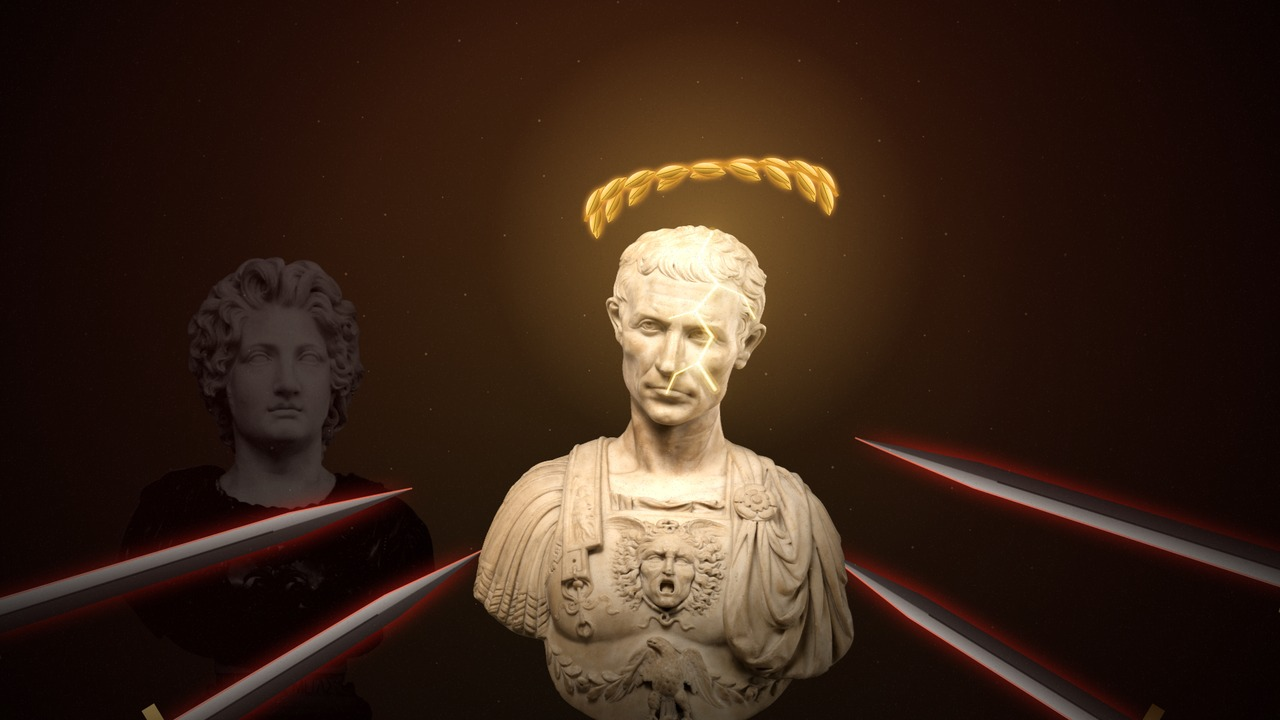
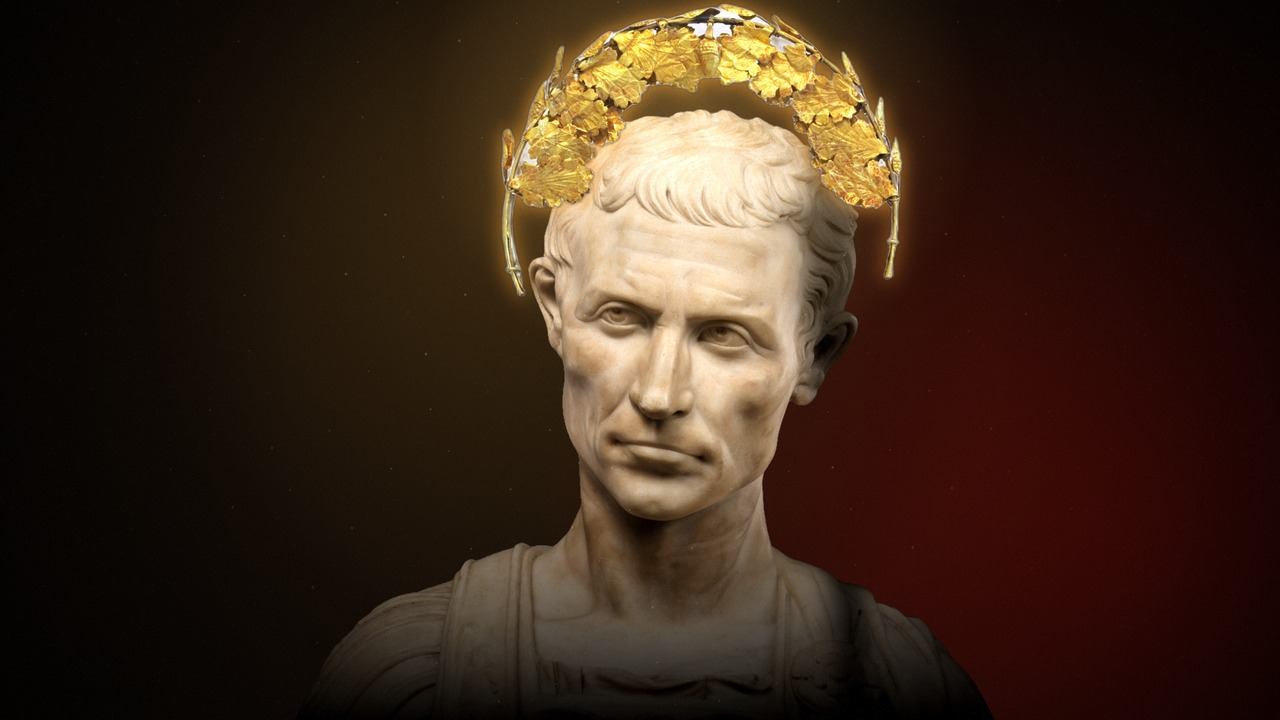
Ego of the Greats ch.2: final thumbnail = option B (crown close-up)
Claude-Session: https://claude.ai/code/session_01FdNxymsi2wKkErxPpURUwr

diff --git a/.claude/skills/jason-video-editor/references/journal.md b/.claude/skills/jason-video-editor/references/journal.md
@@ -489,3 +489,4 @@ Jason sent six references to label as standards. All are now in `jason-motion-gr
 - **CHAPTER CARD standard** (Jason: laurel title "looks so ass" → rebuilt with a marble bust, Cormorant serif, and the gold ball drawing the rule: "way better, this is the standard"). Template: `projects/plutarch/film/title2/title2.html`.
 - **r29 KENYSET TEXT** (Jason shared the @kenyset AE preset Drive folder): 42 .ffx decoded → `kit/textfx.js` + `kit/kenyset-presets.json`, reel `renders/kenyset-text-presets-reel-v1.mp4`. Awaiting his picks.
 - Jason: "we need all this and need to utilize it too" → KENYSET rule in all 3 skills (roles + rotation), Remotion `Kenyset.tsx` added. Rotation log starts here: none used yet.
+- **Ch.2 thumbnail** (Jason): rejected v1 (drawn daggers and halo-wreath), picked option B: a tight close-up of the subject wearing a real Met gold wreath, warm/red. Lesson: thumbnails use real museum objects, never drawn props, and favour a regal close-up over busy story collage.

diff --git a/projects/plutarch/youtube-ch2.md b/projects/plutarch/youtube-ch2.md
@@ -59,5 +59,5 @@ Caesar was so sure of who he was that pirates, a dictator and a storm couldn't s
 ## Settings
 - Category: Education.
 - Audience: not made for kids.
-- Thumbnail: `renders/ego-of-the-greats-ch2-thumbnail-1280.jpg` (plain, no text, matching Chapter I).
+- Thumbnail: `renders/ego-of-the-greats-ch2-thumbnail-1280.jpg` (option B, chosen by Jason: Caesar close-up wearing the real Met gold wreath; plain, no text).
 - Add to the playlist "The Ego of the Greats" with Chapter I. End screen: Chapter I and Subscribe.
